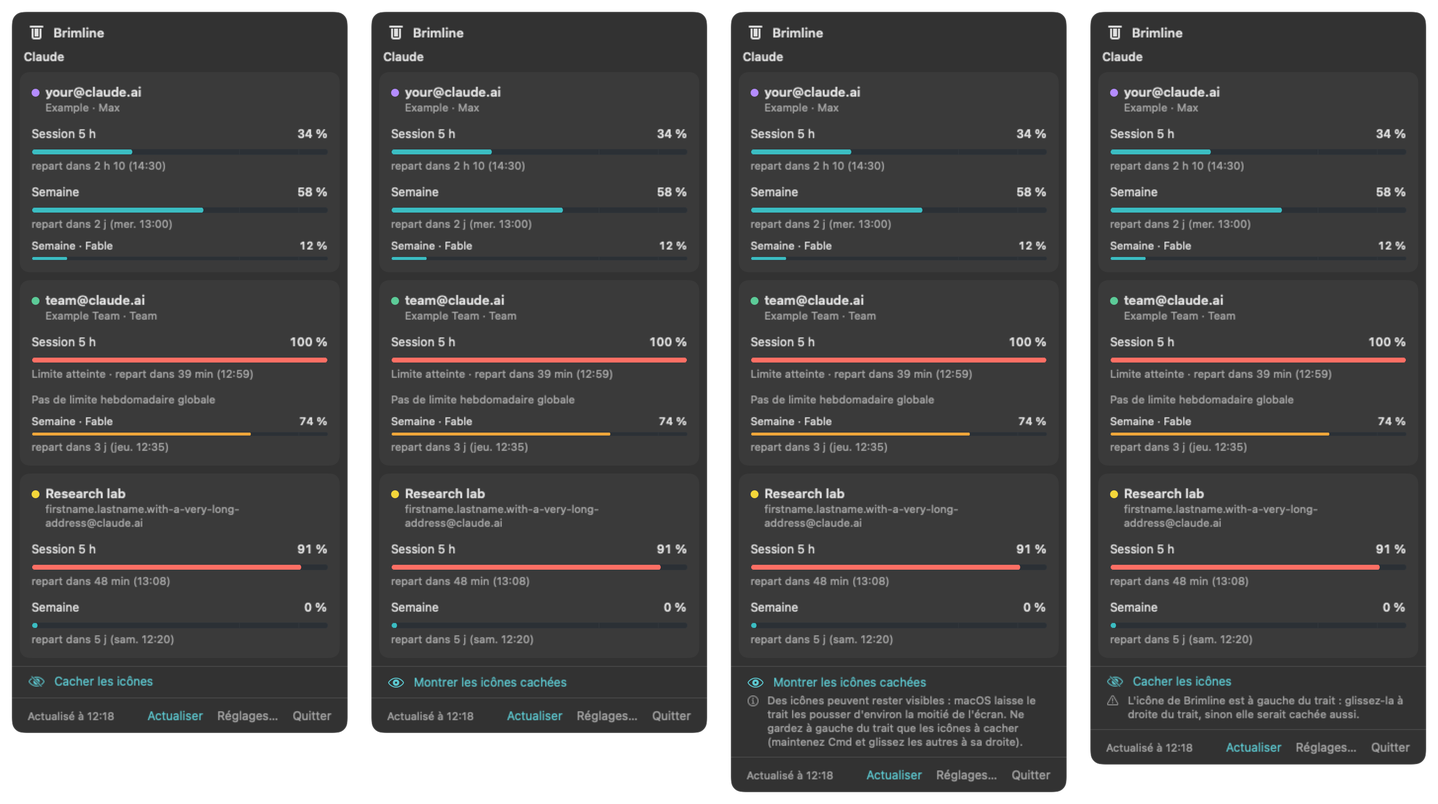
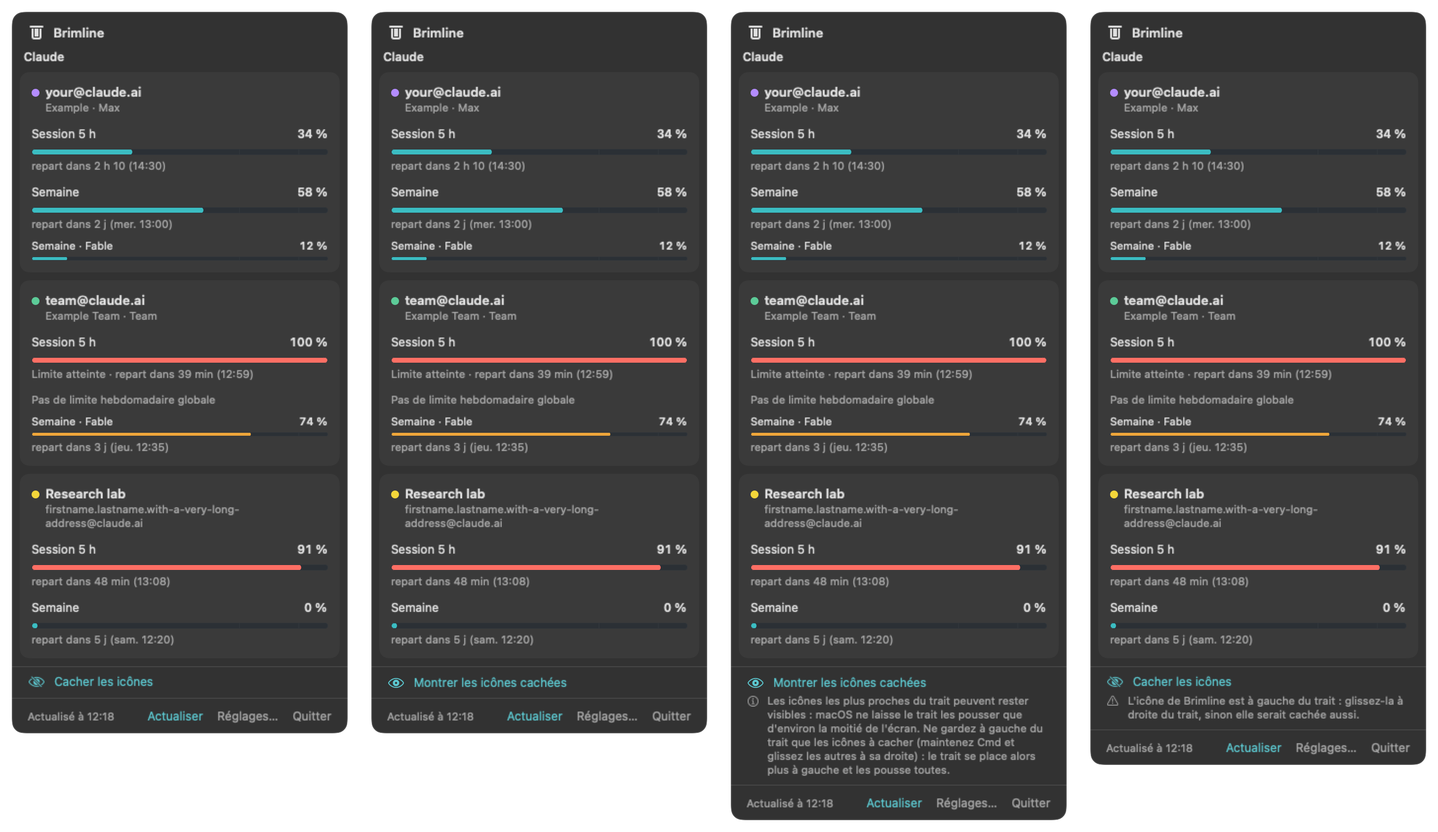
Brimline 0.2.2: the bar stays in place while hiding, clearer note, Other color opens (#38)
* fix: close the menu bar window after hiding, a real button for Other color

While Brimline's window is in front, the menu bar has no app menus, so the pushed
icons were drawn on the left. The "+" of Other color was the SwiftUI color
picker laid invisibly over the dot and did not open on a click.

* fix: color panel closes with Settings; docs: the partial note after the window closes, Settings case

* fix(menu-bar): the bar stays in place while hiding; keep the window open; clearer note

Real clicks on 28/10/2026 (bar at 1512 pt, Finder or Claude in front, from the
menu bar window and with Settings in front): the icons closest to the bar stayed
visible and moved left, the others were hidden, the same from both places.
Closing the window changed nothing, so it is gone. The thin line of the bar was
drawn in the middle of the long item; it is now drawn at its right end.

* docs: J10 click-through of 28/10, missing space in French, « sign

* docs: J10 wording

---------

diff --git a/Sources/BrimlineUI/AccountColorRow.swift b/Sources/BrimlineUI/AccountColorRow.swift
@@ -133,9 +133,9 @@ private struct Swatch: View {
     }
 }
 
-/// "Other color…": a dashed dot marked "+" that opens the system color picker; once a free color is chosen it is
-/// filled with it and ringed. The picker is the system's, laid invisibly over the dot so that the keyboard and
-/// VoiceOver reach the real control.
+/// "Other color…": a dashed dot marked "+" that opens the system color panel; once a free color is chosen it is
+/// filled with it and ringed. A real button, so that the keyboard and VoiceOver reach it. (Up to 0.2.1 it was the
+/// SwiftUI color picker laid invisibly over the dot, which did not open on a click.)
 private struct OtherColor: View {
     var account: Account
     var model: AppModel
@@ -144,34 +144,64 @@ private struct OtherColor: View {
     var body: some View {
         let s = model.strings
         let custom: Bool = { if case .custom = current { return true } else { return false } }()
-        ZStack {
-            Circle()
-                .fill(custom ? SGTheme.account(current) : Color.clear)
-                .frame(width: SGTheme.swatch, height: SGTheme.swatch)
-            if !custom {
-                Circle()
-                    .strokeBorder(Color.secondary, style: StrokeStyle(lineWidth: 1, dash: [2.5, 2.5]))
-                    .frame(width: SGTheme.swatch, height: SGTheme.swatch)
-                Image(systemName: "plus")
-                    .font(.system(size: 9, weight: .semibold))
-                    .foregroundStyle(Color.secondary)
+        Button {
+            let dark = NSApp.effectiveAppearance.bestMatch(from: [.darkAqua, .aqua]) == .darkAqua
+            ColorPanel.shared.open(initial: NSColor(hex: current.rgb(dark: dark))) { picked in
+                if let color = SystemColorPicker.accountColor(from: Color(nsColor: picked)) { model.setColor(color, for: account) }
             }
-            ColorPicker(s.otherColor, selection: Binding(
-                get: { Color(nsColor: NSColor(hex: current.rgb(dark: NSApp.effectiveAppearance.bestMatch(from: [.darkAqua, .aqua]) == .darkAqua))) },
-                set: { picked in
-                    if let color = SystemColorPicker.accountColor(from: picked) { model.setColor(color, for: account) }
+        } label: {
+            ZStack {
+                Circle()
+                    .fill(custom ? SGTheme.account(current) : Color.clear)
+                    .frame(width: SGTheme.swatch, height: SGTheme.swatch)
+                if !custom {
+                    Circle()
+                        .strokeBorder(Color.secondary, style: StrokeStyle(lineWidth: 1, dash: [2.5, 2.5]))
+                        .frame(width: SGTheme.swatch, height: SGTheme.swatch)
+                    Image(systemName: "plus")
+                        .font(.system(size: 9, weight: .semibold))
+                        .foregroundStyle(Color.secondary)
                 }
-            ), supportsOpacity: false)
-                .labelsHidden()
-                .frame(width: SGTheme.swatch, height: SGTheme.swatch)
-                .clipShape(Circle())
-                .opacity(0.02)
-                .accessibilityLabel(s.otherColor)
+            }
+            .contentShape(Circle())
         }
+        .buttonStyle(.plain)
         .overlay(SelectionRing(shown: custom))
         .help(s.otherColor)
+        .accessibilityLabel(s.otherColor)
+        .accessibilityAddTraits(custom ? .isSelected : [])
+    }
+}
+
+/// The system color panel, shared by every account: each opening says which account the next colors go to.
+@MainActor
+final class ColorPanel: NSObject {
+    static let shared = ColorPanel()
+    private var onPick: ((NSColor) -> Void)?
+
+    func open(initial: NSColor, onPick: @escaping (NSColor) -> Void) {
+        let panel = NSColorPanel.shared
+        // The color is set before the target, so that showing the current color changes nothing.
+        self.onPick = nil
+        panel.showsAlpha = false
+        panel.color = initial
+        self.onPick = onPick
+        panel.setTarget(self)
+        panel.setAction(#selector(changed(_:)))
+        panel.isContinuous = true
+        NSApp.activate(ignoringOtherApps: true)
+        panel.makeKeyAndOrderFront(nil)
     }
 
+    /// Settings closed: the panel goes too, and a color picked later goes to no account.
+    func close() {
+        onPick = nil
+        if NSColorPanel.sharedColorPanelExists { NSColorPanel.shared.orderOut(nil) }
+    }
+
+    @objc private func changed(_ sender: NSColorPanel) {
+        onPick?(sender.color)
+    }
 }
 
 /// What the system color picker gives back, as an account color.

diff --git a/Sources/BrimlineUI/MenuBarHider.swift b/Sources/BrimlineUI/MenuBarHider.swift
@@ -77,6 +77,8 @@ public final class MenuBarHider: MenuBarSeparating {
             macOSMajor: ProcessInfo.processInfo.operatingSystemVersion.majorVersion)
         if case .hide(let length, _) = decision {
             item.length = CGFloat(length)
+            // The thin bar stays where the person put it, at the right end of the long item, not in its middle.
+            item.button?.image = Self.hidingImage(length: CGFloat(length))
             isHiding = true
             lastDecision = decision
         }
@@ -87,6 +89,7 @@ public final class MenuBarHider: MenuBarSeparating {
         recheck?.cancel()
         recheck = nil
         item?.length = NSStatusItem.variableLength
+        item?.button?.image = Self.barImage
         isHiding = false
         lastDecision = nil
     }
@@ -130,9 +133,17 @@ public final class MenuBarHider: MenuBarSeparating {
     }
 
     /// A thin vertical bar, drawn in the color of the menu bar (template image).
-    static let barImage: NSImage = {
-        let image = NSImage(size: NSSize(width: 8, height: 16), flipped: false) { rect in
-            let bar = NSBezierPath(roundedRect: NSRect(x: rect.midX - 0.75, y: 1.5, width: 1.5, height: rect.height - 3),
+    static let barImage: NSImage = barImage(width: 8)
+
+    /// The same bar at the right end of an image as long as the hiding item, so that it stays in place: AppKit centers
+    /// the image in the item, with the same margin on each side as for the short one.
+    static func hidingImage(length: CGFloat) -> NSImage {
+        barImage(width: max(8, length))
+    }
+
+    private static func barImage(width: CGFloat) -> NSImage {
+        let image = NSImage(size: NSSize(width: width, height: 16), flipped: false) { rect in
+            let bar = NSBezierPath(roundedRect: NSRect(x: rect.maxX - 4.75, y: 1.5, width: 1.5, height: rect.height - 3),
                                    xRadius: 0.75, yRadius: 0.75)
             NSColor.black.setFill()
             bar.fill()
@@ -140,5 +151,5 @@ public final class MenuBarHider: MenuBarSeparating {
         }
         image.isTemplate = true
         return image
-    }()
+    }
 }

diff --git a/Sources/BrimlineCore/Formatting.swift b/Sources/BrimlineCore/Formatting.swift
@@ -568,8 +568,8 @@ public struct Strings: Sendable {
     }
     /// After a hiding that may leave the icons nearest the bar shown.
     public var menuBarHidingPartial: String {
-        t("Some icons may stay visible: macOS lets the bar push them by about half the screen. Keep only the icons to hide left of the bar (hold Command and drag the others to its right).",
-          "Des icônes peuvent rester visibles : macOS laisse le trait les pousser d'environ la moitié de l'écran. Ne gardez à gauche du trait que les icônes à cacher (maintenez Cmd et glissez les autres à sa droite).")
+        t("The icons closest to the bar may stay visible: macOS lets the bar push them by about half the screen only. Keep only the icons to hide left of the bar (hold Command and drag the others to its right): the bar then sits further left and pushes them all out.",
+          "Les icônes les plus proches du trait peuvent rester visibles : macOS ne laisse le trait les pousser que d'environ la moitié de l'écran. Ne gardez à gauche du trait que les icônes à cacher (maintenez Cmd et glissez les autres à sa droite) : le trait se place alors plus à gauche et les pousse toutes.")
     }
     public var menuBarHidingNote: String {
         t("Apple doesn't document this technique: it was tried on macOS 27.0.1, on a screen without a notch. Brimline itself stays right of the bar, never hidden. Quitting Brimline or turning this off shows every icon again.",

diff --git a/Sources/BrimlineUI/MenuBarLabel.swift b/Sources/BrimlineUI/MenuBarLabel.swift
@@ -38,6 +38,7 @@ public struct MenuBarLabel: View {
 @MainActor
 public final class SettingsWindowController {
     private var window: NSWindow?
+    private var closeObserver: (any NSObjectProtocol)?
     private let model: AppModel
 
     public init(model: AppModel) {
@@ -62,6 +63,10 @@ public final class SettingsWindowController {
         window.isReleasedWhenClosed = false
         window.setContentSize(SettingsView.size)
         window.identifier = NSUserInterfaceItemIdentifier("settings")
+        closeObserver = NotificationCenter.default.addObserver(forName: NSWindow.willCloseNotification, object: window,
+                                                               queue: .main) { _ in
+            MainActor.assumeIsolated { ColorPanel.shared.close() }
+        }
         return window
     }
 }

diff --git a/tests/BrimlineCoreTests/MenuBarHidingTests.swift b/tests/BrimlineCoreTests/MenuBarHidingTests.swift
@@ -120,7 +120,7 @@ struct MenuBarHidingTests {
         }
         #expect(Strings(.fr).menuBarHidingToggle == "Cacher les icônes placées à gauche du trait")
         #expect(Strings(.en).menuBarHidingToggle == "Hide the icons placed left of the bar")
-        #expect(Strings(.en).menuBarHidingPartial.hasPrefix("Some icons may stay visible"))
+        #expect(Strings(.en).menuBarHidingPartial.hasPrefix("The icons closest to the bar may stay visible"))
         #expect(!Strings(.en).menuBarHidingRefusal(.brimlineLeftOfBar).contains("too far right"))
         #expect(Links.menuBarDoc(.fr).lastPathComponent == "menu-bar.fr.md")
         #expect(Links.menuBarDoc(.en).lastPathComponent == "menu-bar.md")

diff --git a/CHANGELOG.md b/CHANGELOG.md
@@ -8,12 +8,14 @@ The version lives in the `VERSION` file. `0.0.0` is the development version: not
 
 ## [0.2.2] - 2026-10-28
 
-Brimline 0.2.2 fixes "Hide without removing" when Brimline's bar sits far right in the menu bar, and makes the gauge as bold on a regular screen as on a Retina one. The full notes are in [docs/releases/v0.2.2.md](docs/releases/v0.2.2.md).
+Brimline 0.2.2 fixes "Hide without removing" with the bar far right and the "Other color…" button, and makes the gauge as bold on a regular screen as on a Retina one. The full notes are in [docs/releases/v0.2.2.md](docs/releases/v0.2.2.md).
 
 ### Fixed
 
-- **The bar far right no longer refuses to hide.** Up to 0.2.1, a bar whose left edge was more than 45 % of the screen plus 50 pt from the left was refused with "The bar is too far right to hide reliably", which in practice meant almost always (the bar sits near the right, beside Brimline). Measured again on 28 October 2026 with a bar at 1512 pt of a 1920 pt screen: macOS pushes the icons with a length of 900, 921, 930 and 940 pt and takes the bar out from 950 pt, the same limit as with the bar at 838 pt (940 pushes, 960 takes it out). Brimline now always hides what it can, with **48 % of the narrowest screen** (921 pt on 1920, it was 45 %), and when the bar is far right it says that the icons nearest the bar may stay visible, and how to keep only the icons to hide left of it. The refusal "too far right" is gone; the two others stay (Brimline's icon left of the bar, a place that cannot be read).
+- **The bar far right no longer refuses to hide.** Up to 0.2.1, a bar whose left edge was more than 45 % of the screen plus 50 pt from the left was refused with "The bar is too far right to hide reliably", which in practice meant almost always (the bar sits near the right, beside Brimline). Measured again on 28 October 2026 with a bar at 1512 pt of a 1920 pt screen: macOS pushes the icons with a length of 900, 921, 930 and 940 pt and takes the bar out from 950 pt, the same limit as with the bar at 838 pt (940 pushes, 960 takes it out). Brimline now always hides what it can, with **48 % of the narrowest screen** (921 pt on 1920, it was 45 %), and when the bar is far right it says that the icons closest to the bar may stay visible, and how to keep only the icons to hide left of it. Tried on 28 October 2026 with the bar at 1512 pt and Finder or Claude in front, by real clicks in the menu bar window, and with Settings in front: the icons nearest the bar (two of them) stayed visible, moved left, and the others were hidden; a « sign appeared in their place. The refusal "too far right" is gone; the two others stay (Brimline's icon left of the bar, a place that cannot be read).
 - **The gauge on a regular screen.** On a screen that is not Retina (1x), the gauge, its limit line and the glyph were drawn thinner than on Retina; they now have the same bold look (2 pt lines). The pictures of the README and the docs are made again.
+- **The bar stays in place while the icons are hidden.** Its thin line was drawn in the middle of the long item, so it jumped to the middle of the menu bar; it is now drawn at the right end, where the person put it.
+- **"Other color…" opens on a click.** It was the SwiftUI color picker laid invisibly over the dot, and a click on the "+" did nothing. It is now a real button that opens the system color panel; the panel closes with Settings, so a color picked later never goes to an account by surprise.
 - **Release workflow.** When it completes a draft release left by an earlier run, it now makes the tag on the commit the disk image was built from (`--target`), as it already did for a new release.
 
 ## [0.2.1] - 2026-10-28

diff --git a/docs/menu-bar.fr.md b/docs/menu-bar.fr.md
@@ -35,7 +35,8 @@ Brimline ne touche jamais à l'icône d'une autre app. Pour cacher, il rend **so
 Ce que les essais ont montré, et ce que Brimline en fait :
 
 - La longueur doit rester sous la moitié de l'écran environ : dès 960 pt (sur 1920), macOS retire le trait et ne cache rien (les 10 000 pt de Hidden Bar ne marchent plus sous macOS 27). La limite était la même aux deux places mesurées : trait à 838 pt, 940 pt ont poussé et 960 pt ont fait retirer le trait ; trait à 1512 pt (28 octobre 2026), 900 à 940 pt ont poussé et 950 pt l'ont fait retirer. Les autres places n'ont pas été essayées. Brimline prend **48 % de l'écran le plus étroit** sous macOS 27 et après (921 pt sur 1920), recalculés à chaque écran branché, débranché ou redimensionné (les icônes sont montrées, le trait se pose, puis la vérification repart). Sous macOS 26 et avant, il garde la longueur de Hidden Bar.
-- Une icône poussée sur les menus de l'app au premier plan n'est pas dessinée ; une icône qui tient encore à côté d'eux reste visible. Quand le trait est loin à droite (son bord gauche à plus de 48 % de l'écran plus 50 pt du bord gauche), la poussée peut donc laisser visibles les icônes les plus proches du trait, davantage avec une app aux menus courts. Brimline cache quand même ce qu'il peut et le dit : « Des icônes peuvent rester visibles : macOS laisse le trait les pousser d'environ la moitié de l'écran. Ne gardez à gauche du trait que les icônes à cacher (maintenez Cmd et glissez les autres à sa droite). » Jusqu'à la version 0.2.1, il refusait de cacher dans ce cas.
+- Une icône poussée sur les menus de l'app au premier plan n'est pas dessinée ; une icône qui tient encore à côté d'eux reste visible. Quand le trait est loin à droite (son bord gauche à plus de 48 % de l'écran plus 50 pt du bord gauche), la poussée peut donc laisser visibles les icônes les plus proches du trait, davantage avec une app aux menus courts. Brimline cache quand même ce qu'il peut, et la fenêtre de la barre des menus comme l'onglet Barre des menus des Réglages le disent : « Les icônes les plus proches du trait peuvent rester visibles : macOS ne laisse le trait les pousser que d'environ la moitié de l'écran. Ne gardez à gauche du trait que les icônes à cacher (maintenez Cmd et glissez les autres à sa droite) : le trait se place alors plus à gauche et les pousse toutes. » Essayé le 28 octobre 2026 avec le trait à 1512 pt et Finder ou Claude au premier plan, par de vrais clics dans la fenêtre de la barre des menus, et avec les Réglages au premier plan : les icônes les plus proches du trait (deux) sont restées visibles, déplacées à gauche, et les autres ont été cachées ; un « « » est apparu à leur place. Jusqu'à la version 0.2.1, il refusait de cacher dans ce cas.
+- Pendant que les icônes sont cachées, la ligne du trait est dessinée au bout droit de l'élément allongé : elle reste là où vous l'avez placée.
 - Aucun signal ne dit que les icônes ont vraiment quitté la barre : Brimline ne lit la place de son trait que lorsque les icônes sont montrées, et refuse quand il ne peut pas la lire.
 
 ### Vous retrouvez toujours vos icônes

diff --git a/docs/menu-bar.md b/docs/menu-bar.md
@@ -35,7 +35,8 @@ Brimline never touches another app's icon. To hide, it makes **its own bar** ver
 What the tries showed, and what Brimline does with it:
 
 - The length must stay under about half of the screen: from 960 pt (on 1920), macOS takes the bar out and hides nothing (the 10,000 pt of Hidden Bar no longer works on macOS 27). The limit was the same at the two places measured: with the bar at 838 pt, 940 pt pushed and 960 pt got the bar taken out; with the bar at 1512 pt (28 October 2026), 900 to 940 pt pushed and 950 pt got it taken out. Other places were not tried. Brimline uses **48 % of the narrowest screen** on macOS 27 and later (921 pt on 1920), computed again each time a screen comes, goes or changes size (the icons are shown, the bar settles, then the check runs again). On macOS 26 and before, it keeps the length of Hidden Bar.
-- An icon pushed onto the menus of the app in front is not drawn; one that still fits beside them stays shown. So when the bar is far right (its left edge more than 48 % of the screen plus 50 pt from the left), the push may leave the icons nearest the bar shown, more of them with an app whose menus are short. Brimline still hides what it can and says: "Some icons may stay visible: macOS lets the bar push them by about half the screen. Keep only the icons to hide left of the bar (hold Command and drag the others to its right)." Up to version 0.2.1, it refused to hide in that case.
+- An icon pushed onto the menus of the app in front is not drawn; one that still fits beside them stays shown. So when the bar is far right (its left edge more than 48 % of the screen plus 50 pt from the left), the push may leave the icons nearest the bar shown, more of them with an app whose menus are short. Brimline still hides what it can, and the menu bar window and the Menu Bar tab of Settings say: "The icons closest to the bar may stay visible: macOS lets the bar push them by about half the screen only. Keep only the icons to hide left of the bar (hold Command and drag the others to its right): the bar then sits further left and pushes them all out." Tried on 28 October 2026 with the bar at 1512 pt and Finder or Claude in front, by real clicks in the menu bar window, and with Settings in front: the icons nearest the bar (two of them) stayed visible, moved left, and the others were hidden; a « sign appeared in their place. Up to version 0.2.1, it refused to hide in that case.
+- While the icons are hidden, the thin line of the bar is drawn at the right end of the long item, so it stays where you put it.
 - No signal says that the icons really left the menu bar: Brimline reads its bar's place only while the icons are shown, and refuses when it cannot read it.
 
 ### You always get your icons back

diff --git a/docs/releases/v0.2.2.md b/docs/releases/v0.2.2.md
@@ -1,10 +1,12 @@
 # Brimline 0.2.2
 
-Brimline 0.2.2 fixes the hiding of menu bar icons when Brimline's bar sits far right, and makes the gauge bolder on a regular screen. It is still private: the repository and the site are not public yet, so the links below work once they are.
+Brimline 0.2.2 fixes the hiding of menu bar icons with the bar far right and the "Other color…" button, and makes the gauge bolder on a regular screen. It is still private: the repository and the site are not public yet, so the links below work once they are.
 
 ## What is new
 
-- **Hiding works with the bar far right.** Brimline used to refuse with "The bar is too far right to hide reliably" almost always in practice, since the bar sits near the right, beside Brimline. It now always hides what it can. macOS lets the bar push the icons by about half the screen, so when the bar is far right, the icons nearest it may stay visible (more of them with an app whose menus are short); Brimline then says so, and how to fix it: keep only the icons to hide left of the bar, and drag the others to its right with Command held down.
+- **Hiding works with the bar far right.** Brimline used to refuse with "The bar is too far right to hide reliably" almost always in practice, since the bar sits near the right, beside Brimline. It now always hides what it can. macOS lets the bar push the icons by about half the screen, so when the bar is far right, the icons closest to it may stay visible, moved left (more of them with an app whose menus are short); Brimline then says so, and how to fix it: keep only the icons to hide left of the bar, and drag the others to its right with Command held down.
+- **The bar stays in place** while the icons are hidden, instead of jumping to the middle of the menu bar.
+- **"Other color…" works**: the "+" in Settings, Accounts opens the system color panel.
 - **A bolder gauge on a regular screen**: the same look as on a Retina screen.
 
 ## Good to know

diff --git a/docs/parcours-critiques.md b/docs/parcours-critiques.md
@@ -88,6 +88,7 @@ The journeys to replay before each release to prove that Brimline (the macOS men
 - Expected: as described in the README ("Use").
 - Automated: no.
 - Result on 2026-10-28: not verifiable in this run. It needs the graphical session of the maintainer and real accounts, which a non-regression run must not use; the bundle was built (J5) and its views drawn on invented data (J7), nothing more. Reading real providers also stays manual (the 27 October 2026 trials listed in the README and in `docs/providers.md`).
+- Result on 2026-10-28, later, with the maintainer's agreement, on the maintainer's Mac (macOS 27.0.1, a 1920 pt screen, real accounts), build of version 0.2.2 installed by `scripts/install.sh`, by real mouse clicks: a click on Brimline's element opens the panel; "Hide the icons" in the panel, with Claude in front and the bar at 1512 pt, hides the icons left of the bar except the two closest to it, which move left (a « sign appears in place of the others), the line of the bar stays in place and the panel shows the note on the icons closest to the bar; "Show the hidden icons" brings every icon back; the same with Finder in front and with Settings in front. In Settings, Accounts, the "+" of "Other color…" opens the system color panel without changing the saved colors, and the panel closes with Settings. Proof: screenshots of the menu bar before and after each step, kept with the maintainer. Not covered: opening at login, the system log.
 
 ## Debt
 

diff --git a/docs/accounts.fr.md b/docs/accounts.fr.md
@@ -52,7 +52,7 @@ Chaque compte a une couleur : sa pastille dans la fenêtre de la barre des menus
 Dans **Réglages, Comptes**, la ligne **Couleur** sous chaque compte permet de la changer :
 
 - **les dix couleurs de la palette** : violet, bleu, magenta, olive, encre, sapin, or, marine, cacao et lilas. Chacune a une valeur pour l'apparence claire et une pour la sombre, de sorte qu'elle reste lisible sur les deux ;
-- **Autre couleur…** ouvre le sélecteur de couleur du système (sans opacité). La couleur choisie est gardée en six chiffres (`RRGGBB`, sRVB) et reste la même en clair et en sombre ;
+- **Autre couleur…** ouvre le panneau Couleurs du système (sans opacité). La couleur choisie est gardée en six chiffres (`RRGGBB`, sRVB) et reste la même en clair et en sombre ;
 - **Revenir au défaut** redonne la couleur que Brimline donnerait à ce compte maintenant. Le bouton est grisé, avec « Couleur par défaut » à côté, quand le compte l'a déjà.
 
 Brimline prévient, et ne refuse jamais :

diff --git a/docs/accounts.md b/docs/accounts.md
@@ -52,7 +52,7 @@ Every account has a color: its dot in the menu bar window, and its part of the g
 In **Settings, Accounts**, the **Color** line under each account lets you change it:
 
 - **the ten colors of the palette**: violet, blue, magenta, olive, ink, pine, gold, navy, cocoa and lilac. Each one has a value for the light and one for the dark appearance, so it stays readable on both;
-- **Other color…** opens the system color picker (without opacity). The color you pick is kept as six digits (`RRGGBB`, sRGB) and is the same in light and in dark;
+- **Other color…** opens the system color panel (without opacity). The color you pick is kept as six digits (`RRGGBB`, sRGB) and is the same in light and in dark;
 - **Reset to default** gives back the color Brimline would give this account now. It is greyed, with "Default color" beside it, when the account already has it.
 
 Brimline warns, and never refuses:
